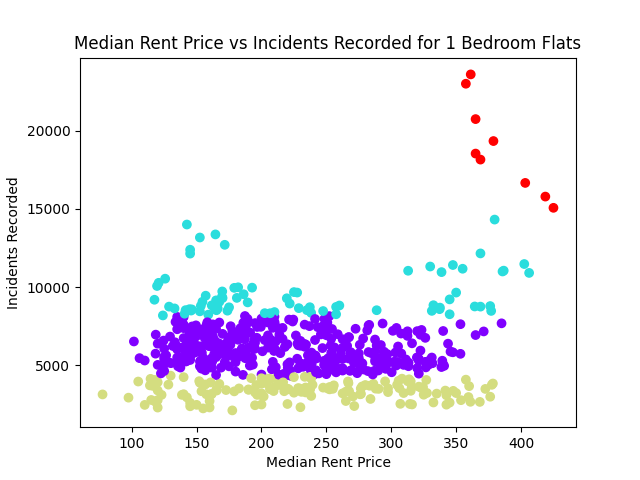
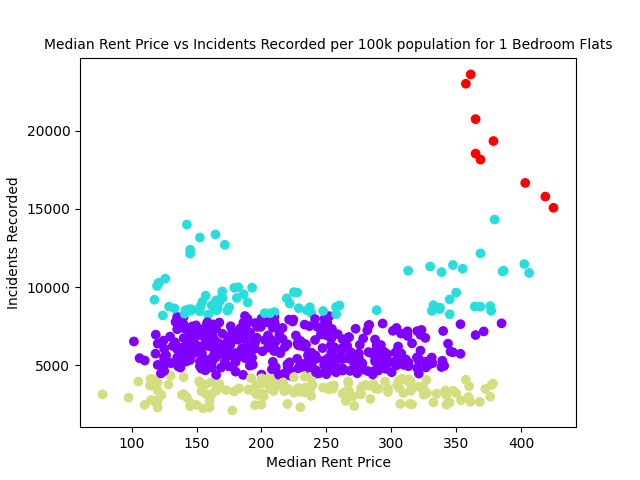
fixed labels for clustering plots

Changed region(s): [[0.0625, 0.0625, 0.9688, 0.125]]

diff --git a/scatter.py b/scatter.py
@@ -136,7 +136,7 @@ def cluster_kmeans(X, k, fname, htype):
     plt.scatter(kmeans.cluster_centers_[:, 0], kmeans.cluster_centers_[:, 1], s=300, c='red')
     plt.xlabel("Median Rent Price")
     plt.ylabel("Incidents Recorded")
-    plt.title(f"Median Rent Price vs Incidents Recorded for {htype}")
+    plt.title(f"Median Rent Price vs Incidents Recorded per 100k population for {htype}", fontsize=10)
     plt.savefig(fname)
     plt.clf()
     return 0
@@ -147,7 +147,7 @@ def cluster_agglomerative(X, k, fname, htype):
     plt.scatter(X[:,0],X[:,1], c=clustering.labels_, cmap='rainbow')
     plt.xlabel("Median Rent Price")
     plt.ylabel("Incidents Recorded")
-    plt.title(f"Median Rent Price vs Incidents Recorded for {htype}")
+    plt.title(f"Median Rent Price vs Incidents Recorded per 100k population for {htype}", fontsize=10)
     plt.savefig(fname)
     plt.clf()
     return 0
